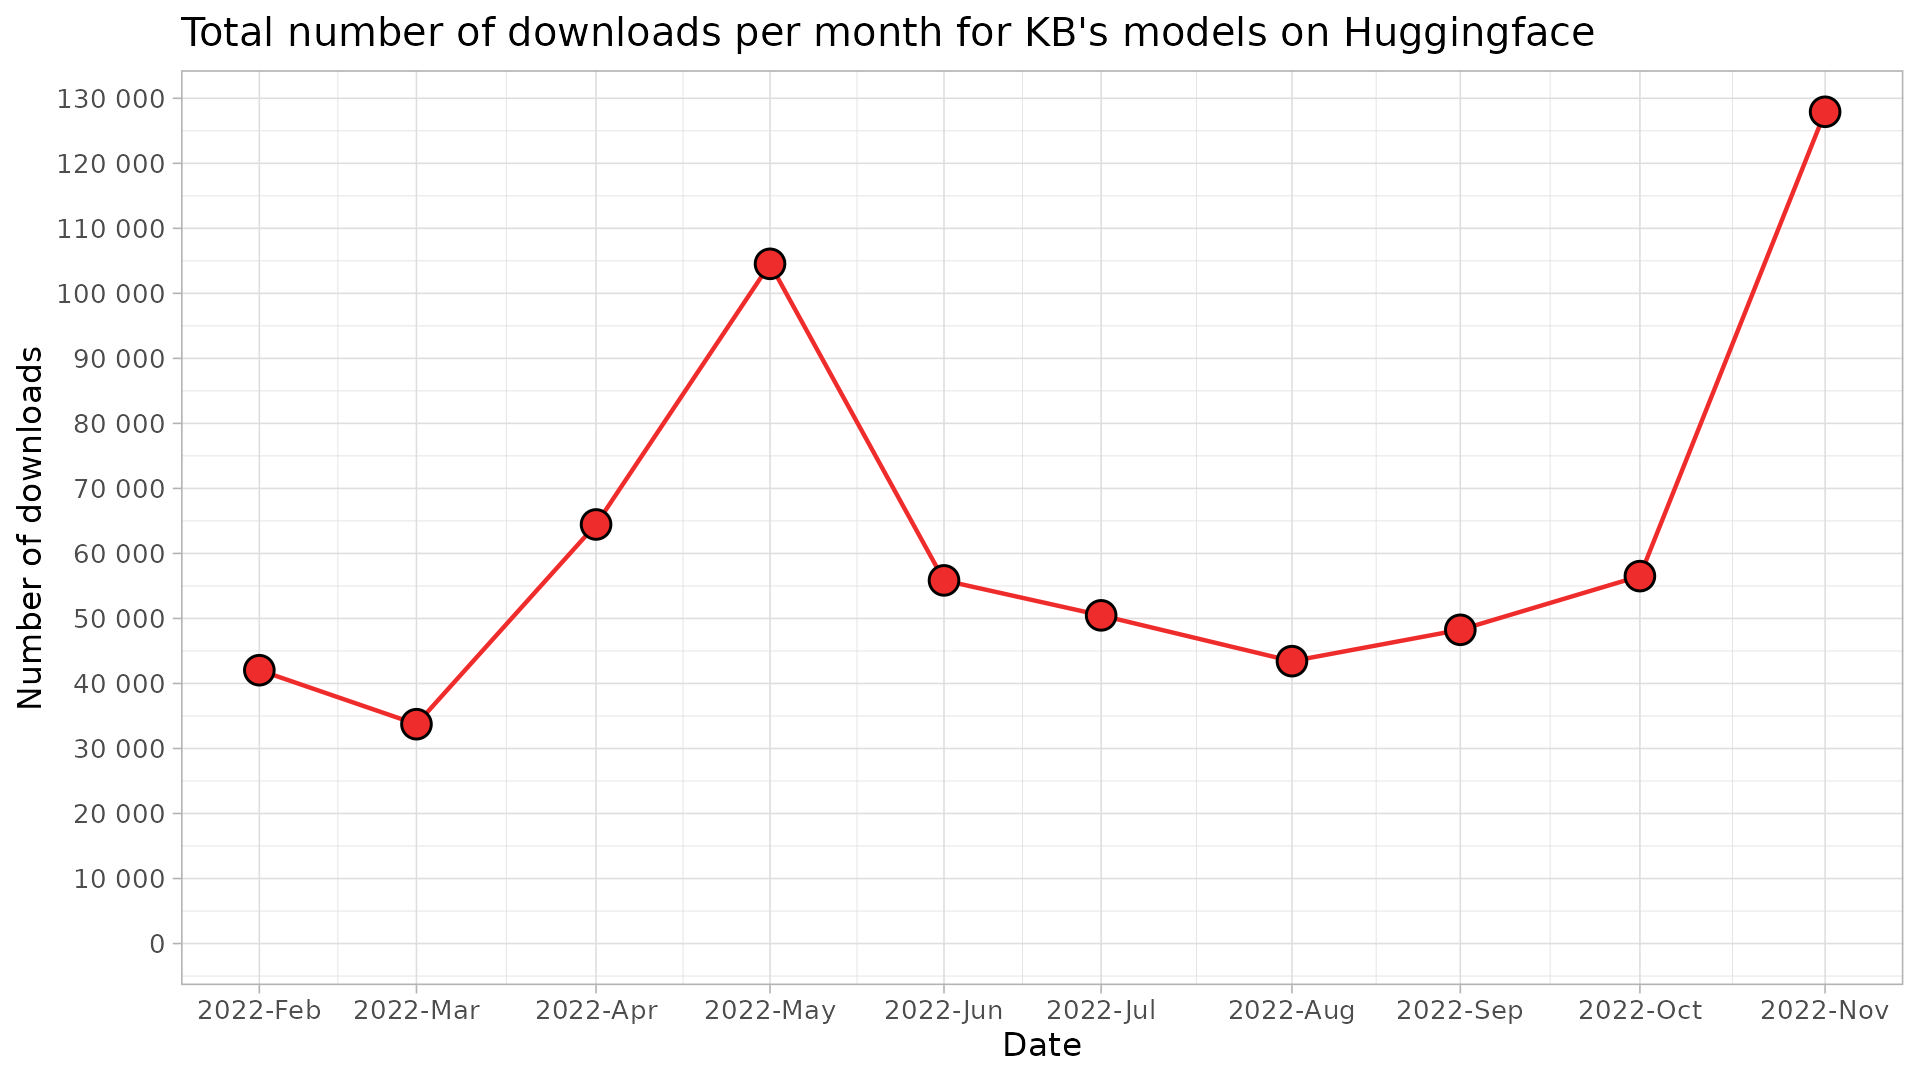
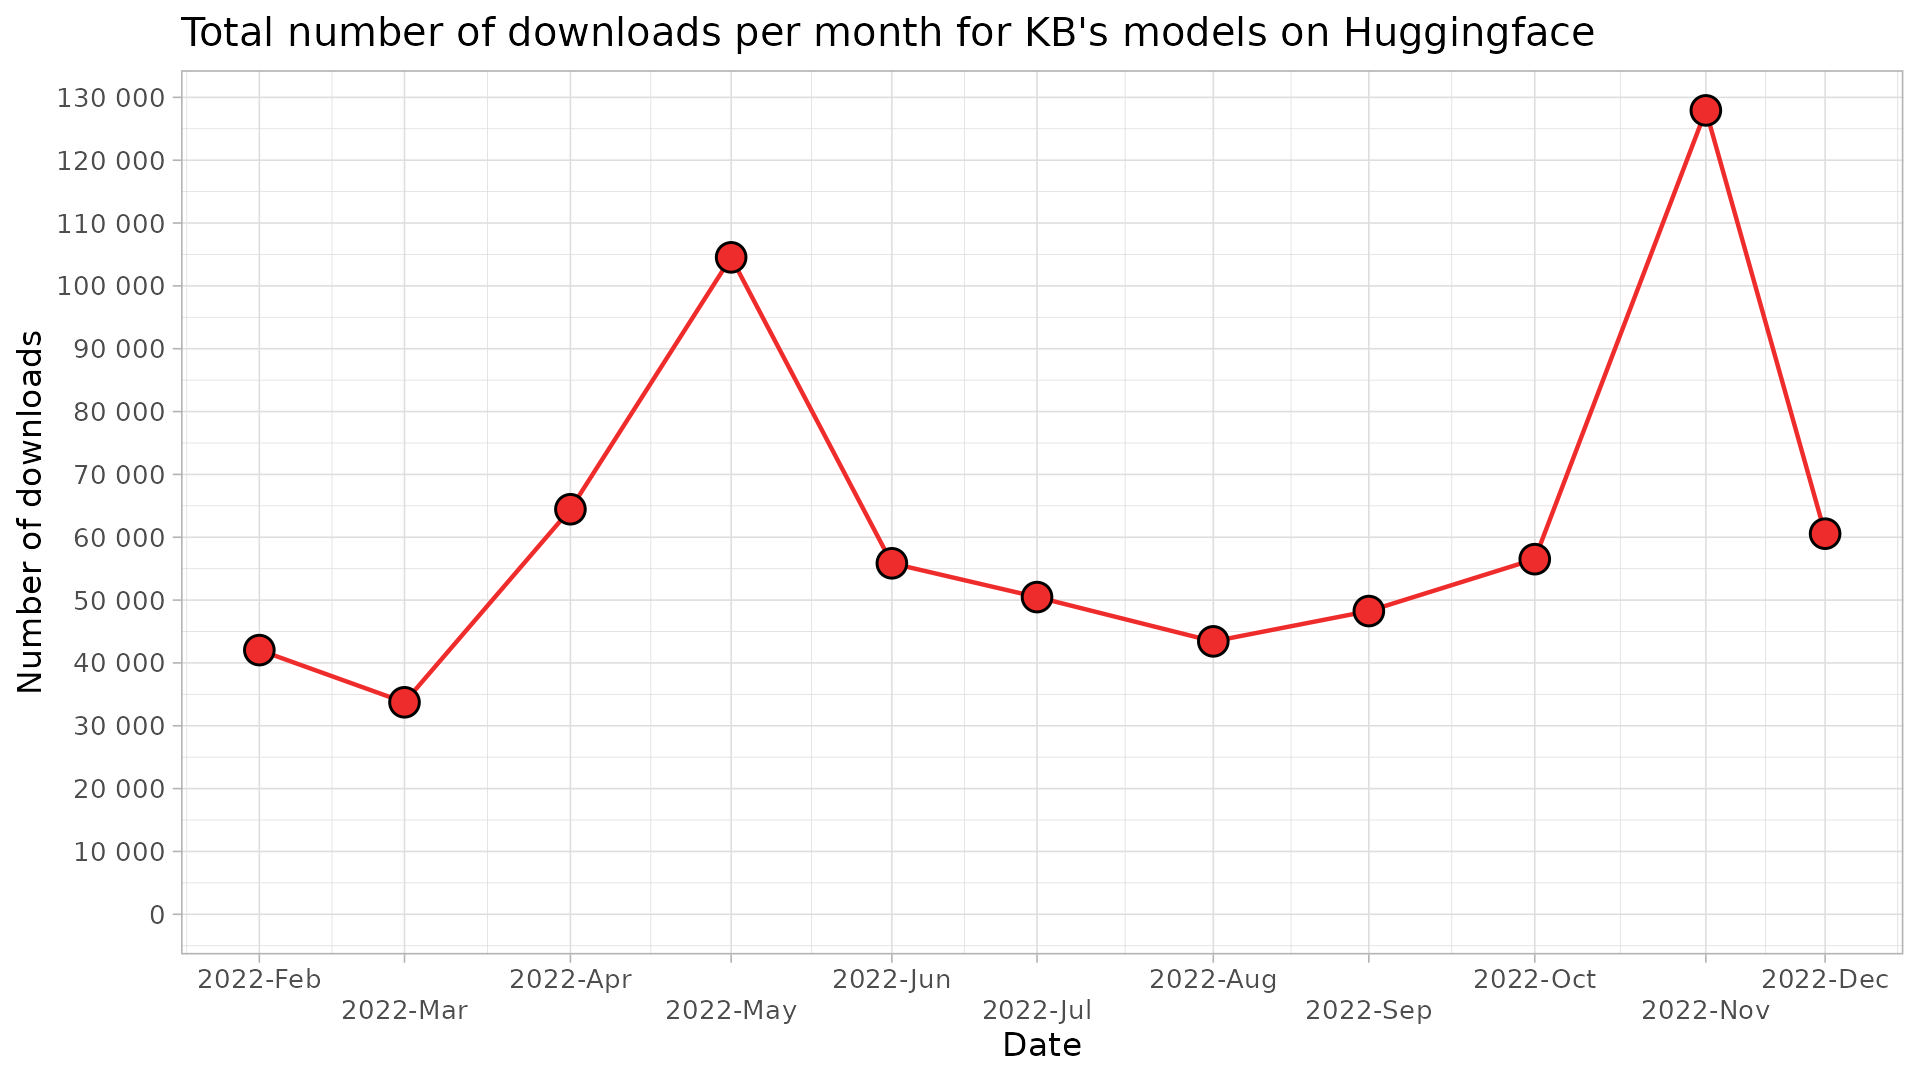
December 2022 update

diff --git a/README.md b/README.md
@@ -12,33 +12,34 @@ Script is run monthly, and a monthly `csv`-file outputted to `/data` folder.
 
 ## Table of downloads
 
-|model_name                                  | 2022-02| 2022-03| 2022-04| 2022-05| 2022-06| 2022-07| 2022-08| 2022-09| 2022-10| 2022-11|
-|:-------------------------------------------|-------:|-------:|-------:|-------:|-------:|-------:|-------:|-------:|-------:|-------:|
-|albert-base-swedish-cased-alpha             |     126|     252|      61|      52|      52|      28|      31|      17|      30|      64|
-|asr-voxrex-bart-base                        |      11|      10|      19|       5|       2|       1|       1|       3|       2|       3|
-|bart-base-swedish-cased                     |      74|      12|     116|     126|      32|      18|      41|      56|      81|       6|
-|bert-base-swedish-cased                     |   16509|   25080|   49286|   82528|   38802|   29511|   17012|   25106|   36702|   92636|
-|bert-base-swedish-cased-alpha               |      22|      24|    1362|      34|       8|      73|       7|      14|      14|      14|
-|bert-base-swedish-cased-ner                 |   19891|    3353|    4783|    4221|   12487|   17406|   24290|   20200|   14852|   11251|
-|bert-base-swedish-cased-neriob              |       8|      87|      34|      25|       4|      44|       2|       1|      62|      10|
-|bert-base-swedish-cased-new                 |      NA|       0|     377|    1069|     786|      10|     238|      69|     225|     168|
-|bert-base-swedish-cased-pos                 |     428|     179|     107|     104|     168|     310|       2|       2|     467|    7959|
-|bert-base-swedish-cased-reallysimple-ner    |       6|      32|       9|       7|      11|      10|       3|       8|      10|      17|
-|bert-base-swedish-cased-squad-experimental  |     323|     136|      45|      23|      40|     182|      25|      27|     101|      10|
-|bert-base-swedish-lowermix-reallysimple-ner |       6|     453|     248|     312|     901|     991|     930|     871|    2274|    3958|
-|electra-base-swedish-cased-discriminator    |     317|     143|     149|    1404|       2|       3|       3|       3|       2|       5|
-|electra-base-swedish-cased-generator        |       9|      15|      26|      31|       2|      19|       1|      18|       1|       9|
-|electra-small-swedish-cased-discriminator   |      12|       5|    1467|    3804|      10|       5|       2|       2|       2|      10|
-|electra-small-swedish-cased-generator       |      NA|       3|     138|      14|       4|      19|       2|       3|       4|       8|
-|megatron-bert-base-swedish-cased-125k       |      NA|       0|     353|       0|       2|       8|       1|       3|     131|      55|
-|megatron-bert-base-swedish-cased-600k       |      NA|      10|     288|      87|      30|      16|      16|      17|     111|      12|
-|megatron-bert-large-swedish-cased-110k      |      NA|       0|     346|      77|       4|       4|       0|       1|       1|     171|
-|megatron-bert-large-swedish-cased-165k      |      NA|      NA|       9|      13|      40|      19|      53|       2|      18|     336|
-|roberta-base-swedish-cased                  |       7|       7|     471|       8|      78|       5|      67|       2|       0|       5|
-|sentence-bert-swedish-cased                 |    2033|    1988|    2079|    8110|     721|    1299|     304|    1157|     597|    1008|
-|swedish-spacy-pipeline                      |      65|      22|       5|       2|       5|       9|       1|       2|       0|       1|
-|wav2vec2-base-voxpopuli-sv-swedish          |      NA|      21|      19|       7|       1|      NA|       1|       5|      99|       6|
-|wav2vec2-large-voxpopuli-sv-swedish         |      58|      32|      73|      57|      24|       5|       5|      11|      59|      15|
-|wav2vec2-large-voxrex                       |     780|     609|     996|      57|     102|      55|      13|      34|      74|       4|
-|wav2vec2-large-voxrex-swedish               |    1356|    1151|    1534|    2331|    1277|     334|     361|     611|     531|   10157|
-|wav2vec2-large-xlsr-53-swedish              |      NA|     112|      55|      32|     259|      91|      19|       9|      61|      26|
+|model_name                                      | 2022-02| 2022-03| 2022-04| 2022-05| 2022-06| 2022-07| 2022-08| 2022-09| 2022-10| 2022-11| 2022-12|
+|:-----------------------------------------------|-------:|-------:|-------:|-------:|-------:|-------:|-------:|-------:|-------:|-------:|-------:|
+|albert-base-swedish-cased-alpha                 |     126|     252|      61|      52|      52|      28|      31|      17|      30|      64|     229|
+|asr-voxrex-bart-base                            |      11|      10|      19|       5|       2|       1|       1|       3|       2|       3|       2|
+|bart-base-swedish-cased                         |      74|      12|     116|     126|      32|      18|      41|      56|      81|       6|       9|
+|bert-base-swedish-cased                         |   16509|   25080|   49286|   82528|   38802|   29511|   17012|   25106|   36702|   92636|   44016|
+|bert-base-swedish-cased-alpha                   |      22|      24|    1362|      34|       8|      73|       7|      14|      14|      14|      10|
+|bert-base-swedish-cased-ner                     |   19891|    3353|    4783|    4221|   12487|   17406|   24290|   20200|   14852|   11251|   10014|
+|bert-base-swedish-cased-neriob                  |       8|      87|      34|      25|       4|      44|       2|       1|      62|      10|       5|
+|bert-base-swedish-cased-new                     |      NA|       0|     377|    1069|     786|      10|     238|      69|     225|     168|     163|
+|bert-base-swedish-cased-pos                     |     428|     179|     107|     104|     168|     310|       2|       2|     467|    7959|    2083|
+|bert-base-swedish-cased-reallysimple-ner        |       6|      32|       9|       7|      11|      10|       3|       8|      10|      17|       4|
+|bert-base-swedish-cased-squad-experimental      |     323|     136|      45|      23|      40|     182|      25|      27|     101|      10|      22|
+|bert-base-swedish-lowermix-reallysimple-ner     |       6|     453|     248|     312|     901|     991|     930|     871|    2274|    3958|    1963|
+|electra-base-swedish-cased-discriminator        |     317|     143|     149|    1404|       2|       3|       3|       3|       2|       5|       0|
+|electra-base-swedish-cased-generator            |       9|      15|      26|      31|       2|      19|       1|      18|       1|       9|       4|
+|electra-small-swedish-cased-discriminator       |      12|       5|    1467|    3804|      10|       5|       2|       2|       2|      10|       8|
+|electra-small-swedish-cased-generator           |      NA|       3|     138|      14|       4|      19|       2|       3|       4|       8|       6|
+|megatron-bert-base-swedish-cased-125k           |      NA|       0|     353|       0|       2|       8|       1|       3|     131|      55|     158|
+|megatron-bert-base-swedish-cased-600k           |      NA|      10|     288|      87|      30|      16|      16|      17|     111|      12|      20|
+|megatron-bert-large-swedish-cased-110k          |      NA|       0|     346|      77|       4|       4|       0|       1|       1|     171|     160|
+|megatron-bert-large-swedish-cased-165-zero-shot |      NA|      NA|      NA|      NA|      NA|      NA|      NA|      NA|      NA|      NA|       5|
+|megatron-bert-large-swedish-cased-165k          |      NA|      NA|       9|      13|      40|      19|      53|       2|      18|     336|     327|
+|roberta-base-swedish-cased                      |       7|       7|     471|       8|      78|       5|      67|       2|       0|       5|       5|
+|sentence-bert-swedish-cased                     |    2033|    1988|    2079|    8110|     721|    1299|     304|    1157|     597|    1008|     887|
+|swedish-spacy-pipeline                          |      65|      22|       5|       2|       5|       9|       1|       2|       0|       1|       3|
+|wav2vec2-base-voxpopuli-sv-swedish              |      NA|      21|      19|       7|       1|      NA|       1|       5|      99|       6|       2|
+|wav2vec2-large-voxpopuli-sv-swedish             |      58|      32|      73|      57|      24|       5|       5|      11|      59|      15|       7|
+|wav2vec2-large-voxrex                           |     780|     609|     996|      57|     102|      55|      13|      34|      74|       4|       0|
+|wav2vec2-large-voxrex-swedish                   |    1356|    1151|    1534|    2331|    1277|     334|     361|     611|     531|   10157|     146|
+|wav2vec2-large-xlsr-53-swedish                  |      NA|     112|      55|      32|     259|      91|      19|       9|      61|      26|     307|
